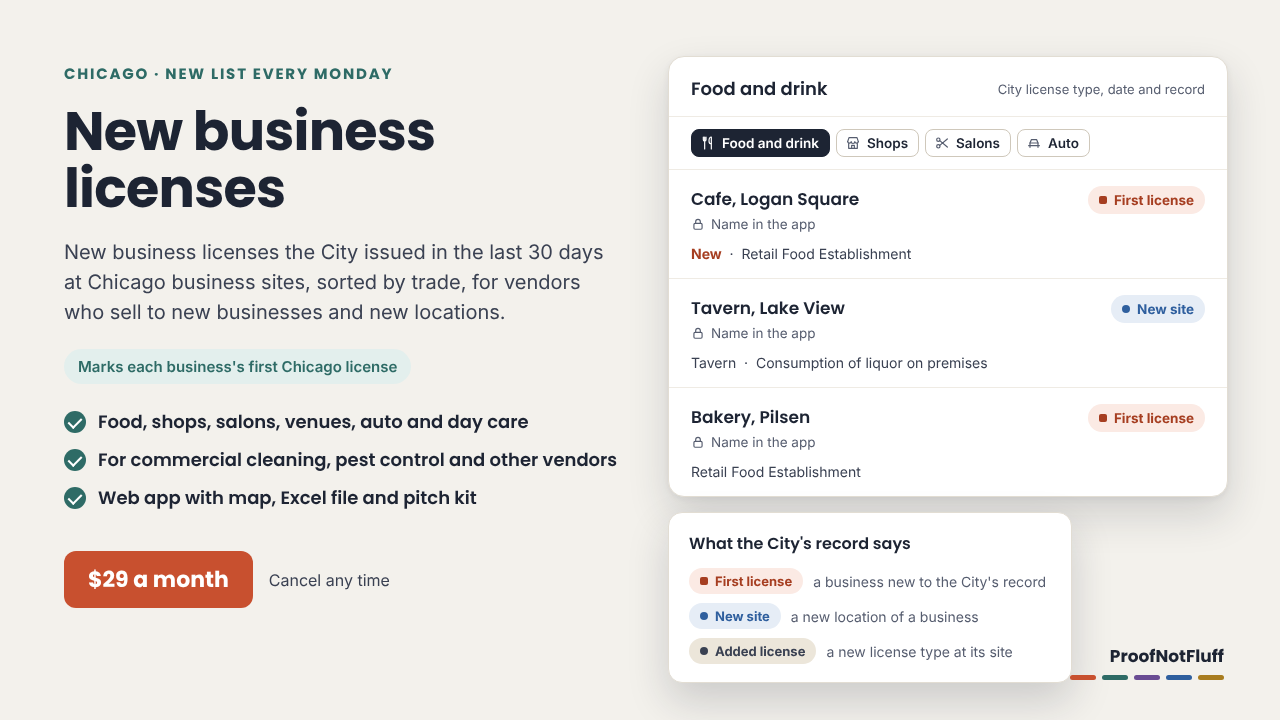
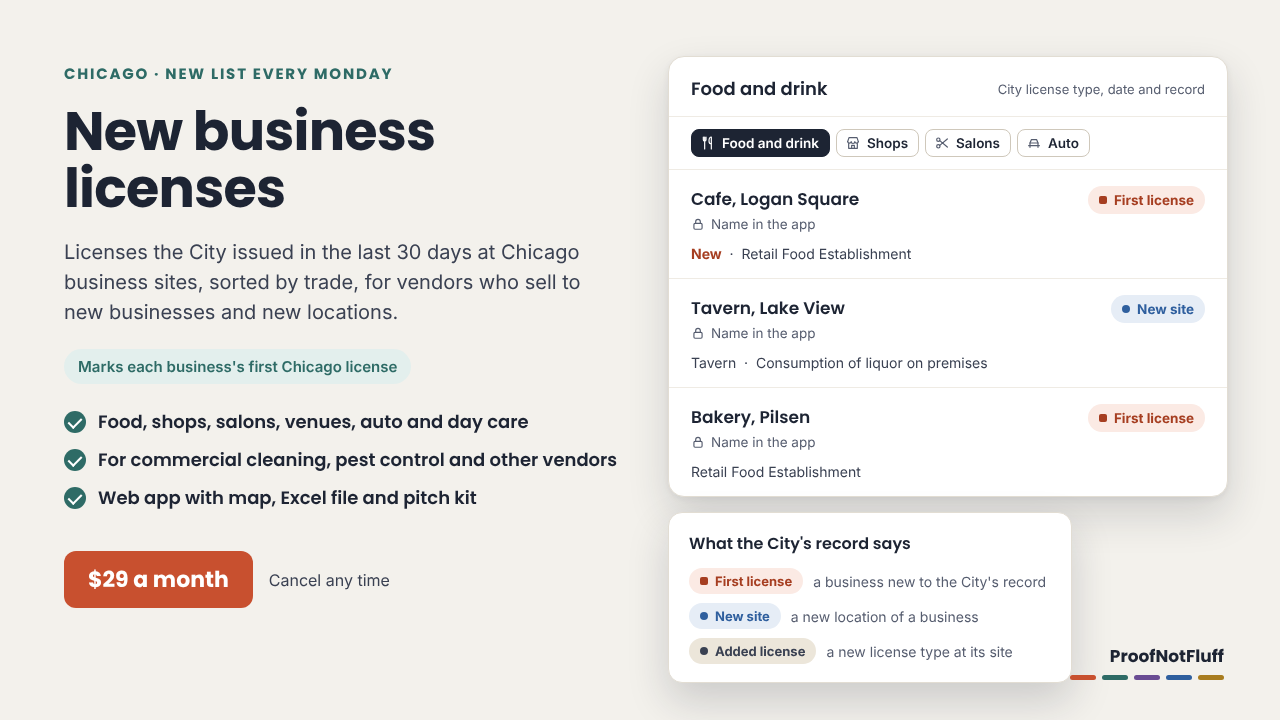
Licenses cover: subline no longer repeats the headline
Claude-Session: https://claude.ai/code/session_01XnX34ksV3GY3Ab6wG7Aich

Changed region(s): [[0.0312, 0.3361, 0.4688, 0.4583]]

diff --git a/launches/chicago-new-business-licenses/cover.html b/launches/chicago-new-business-licenses/cover.html
@@ -30,7 +30,7 @@ ul{list-style:none;margin:24px 0 0}
 </style></head><body>
 <div class="l"><div class="eb">CHICAGO · NEW LIST EVERY MONDAY</div>
 <h1>New business licenses</h1>
-<p class="sub">New business licenses the City issued in the last 30 days at Chicago business sites, sorted by trade, for vendors who sell to new businesses and new locations.</p>
+<p class="sub">Licenses the City issued in the last 30 days at Chicago business sites, sorted by trade, for vendors who sell to new businesses and new locations.</p>
 <span class="fact">Marks each business's first Chicago license</span>
 <ul><li><i></i>Food, shops, salons, venues, auto and day care</li><li><i></i>For commercial cleaning, pest control and other vendors</li><li><i></i>Web app with map, Excel file and pitch kit</li></ul>
 <div class="price"><span class="pill">$29 a month</span><span class="cancel">Cancel any time</span></div></div>
